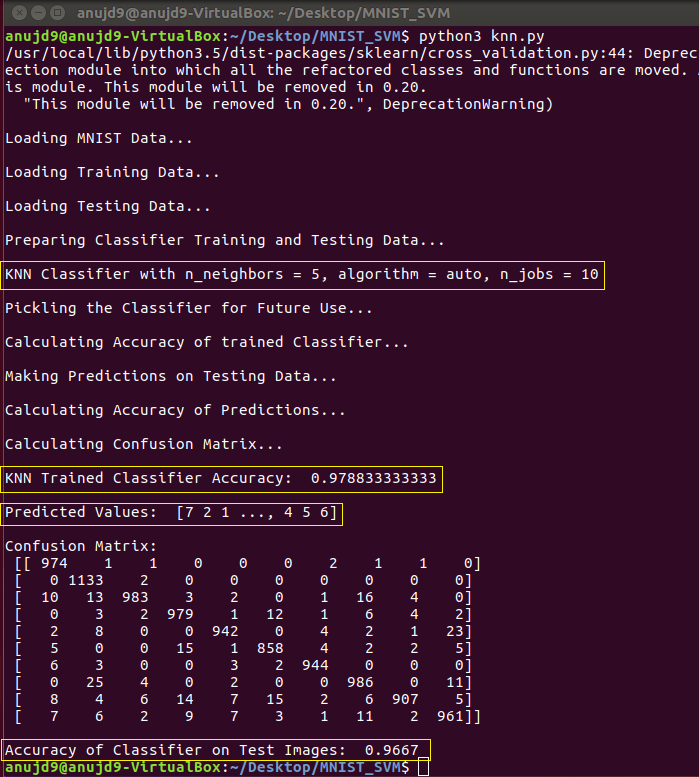
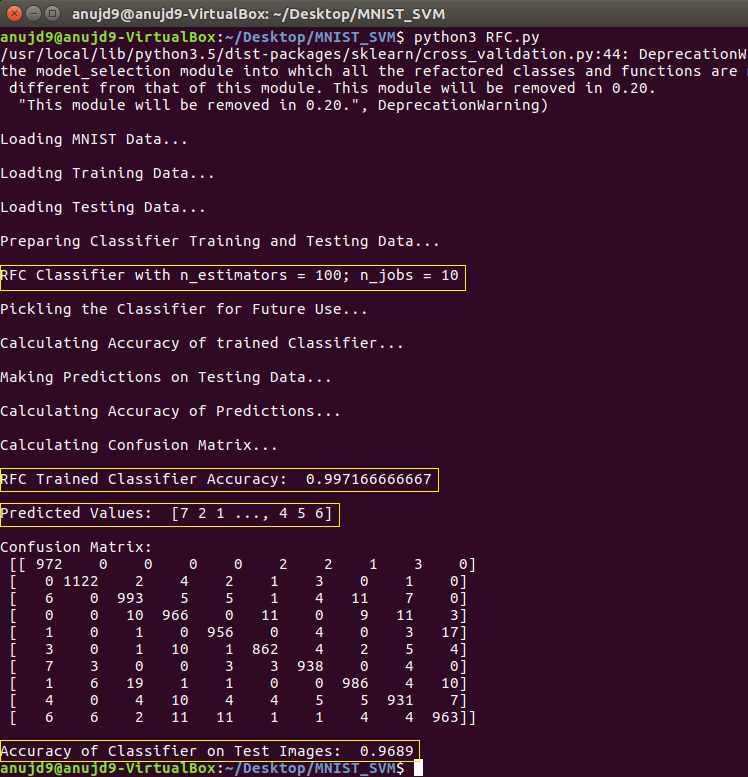
Add files via upload

Changed region(s): [[0.0, 0.2162, 1.0, 1.0], [0.0, 0.0, 1.0, 0.1853], [0.721, 0.3398, 0.8712, 0.3707]]

diff --git a/RFC.py b/RFC.py
@@ -1,0 +1,119 @@
+# Random Forest Classifier
+
+import sys
+import numpy as np
+import pickle
+from sklearn import model_selection
+from sklearn.ensemble import RandomForestClassifier
+from sklearn.metrics import accuracy_score, confusion_matrix
+from MNIST_Dataset_Loader.mnist_loader import MNIST
+import matplotlib.pyplot as plt
+from matplotlib import style
+style.use('ggplot')
+
+
+
+old_stdout = sys.stdout
+log_file = open("summary.log","w")
+sys.stdout = log_file
+
+
+print('\nLoading MNIST Data...')
+# data = MNIST('./python-mnist/data/')
+
+data = MNIST('./MNIST_Dataset_Loader/dataset/')
+
+print('\nLoading Training Data...')
+img_train, labels_train = data.load_training()
+train_img = np.array(img_train)
+train_labels = np.array(labels_train)
+
+print('\nLoading Testing Data...')
+img_test, labels_test = data.load_testing()
+test_img = np.array(img_test)
+test_labels = np.array(labels_test)
+
+
+#Features
+X = train_img
+
+#Labels
+y = train_labels
+
+print('\nPreparing Classifier Training and Validation Data...')
+X_train, X_test, y_train, y_test = model_selection.train_test_split(X,y,test_size=0.1)
+
+
+print('\nRandom Forest Classifier with n_estimators = 100, n_jobs = 10')
+print('\nPickling the Classifier for Future Use...')
+clf = RandomForestClassifier(n_estimators=100, n_jobs=10)
+clf.fit(X_train,y_train)
+
+with open('MNIST_RFC.pickle','wb') as f:
+	pickle.dump(clf, f)
+
+pickle_in = open('MNIST_RFC.pickle','rb')
+clf = pickle.load(pickle_in)
+
+print('\nCalculating Accuracy of trained Classifier...')
+confidence = clf.score(X_test,y_test)
+
+print('\nMaking Predictions on Validation Data...')
+y_pred = clf.predict(X_test)
+
+print('\nCalculating Accuracy of Predictions...')
+accuracy = accuracy_score(y_test, y_pred)
+
+print('\nCreating Confusion Matrix...')
+conf_mat = confusion_matrix(y_test,y_pred)
+
+print('\nRFC Trained Classifier Confidence: ',confidence)
+print('\nPredicted Values: ',y_pred)
+print('\nAccuracy of Classifier on Validation Image Data: ',accuracy)
+print('\nConfusion Matrix: \n',conf_mat)
+
+
+# Plot Confusion Matrix Data as a Matrix
+plt.matshow(conf_mat)
+plt.title('Confusion Matrix for Validation Data')
+plt.colorbar()
+plt.ylabel('True label')
+plt.xlabel('Predicted label')
+plt.show()
+
+
+print('\nMaking Predictions on Test Input Images...')
+test_labels_pred = clf.predict(test_img)
+
+print('\nCalculating Accuracy of Trained Classifier on Test Data... ')
+acc = accuracy_score(test_labels,test_labels_pred)
+
+print('\n Creating Confusion Matrix for Test Data...')
+conf_mat_test = confusion_matrix(test_labels,test_labels_pred)
+
+print('\nPredicted Labels for Test Images: ',test_labels_pred)
+print('\nAccuracy of Classifier on Test Images: ',acc)
+print('\nConfusion Matrix for Test Data: \n',conf_mat_test)
+
+# Plot Confusion Matrix for Test Data
+plt.matshow(conf_mat_test)
+plt.title('Confusion Matrix for Test Data')
+plt.colorbar()
+plt.ylabel('True label')
+plt.xlabel('Predicted label')
+plt.axis('off')
+plt.show()
+
+sys.stdout = old_stdout
+log_file.close()
+
+
+# Show the Test Images with Original and Predicted Labels
+a = np.random.randint(1,30,10)
+for i in a:
+	two_d = (np.reshape(test_img[i], (28, 28)) * 255).astype(np.uint8)
+	plt.title('Original Label: {0}  Predicted Label: {1}'.format(test_labels[i],test_labels_pred[i]))
+	plt.imshow(two_d, interpolation='nearest',cmap='gray')
+	plt.show()
+#------------------------- EOC -----------------------------
+

diff --git a/svm.py b/svm.py
@@ -1,0 +1,115 @@
+import sys
+import numpy as np
+import pickle
+from sklearn import model_selection, svm, preprocessing
+from sklearn.metrics import accuracy_score,confusion_matrix
+from MNIST_Dataset_Loader.mnist_loader import MNIST
+import matplotlib.pyplot as plt
+from matplotlib import style
+style.use('ggplot')
+
+
+# Save all the Print Statements in a Log file.
+old_stdout = sys.stdout
+log_file = open("summary.log","w")
+sys.stdout = log_file
+
+# Load MNIST Data
+print('\nLoading MNIST Data...')
+data = MNIST('./MNIST_Dataset_Loader/dataset/')
+
+print('\nLoading Training Data...')
+img_train, labels_train = data.load_training()
+train_img = np.array(img_train)
+train_labels = np.array(labels_train)
+
+print('\nLoading Testing Data...')
+img_test, labels_test = data.load_testing()
+test_img = np.array(img_test)
+test_labels = np.array(labels_test)
+
+
+#Features
+X = train_img
+
+#Labels
+y = train_labels
+
+# Prepare Classifier Training and Testing Data
+print('\nPreparing Classifier Training and Validation Data...')
+X_train, X_test, y_train, y_test = model_selection.train_test_split(X,y,test_size=0.1)
+
+
+# Pickle the Classifier for Future Use
+print('\nSVM Classifier with gamma = 0.1; Kernel = polynomial')
+print('\nPickling the Classifier for Future Use...')
+clf = svm.SVC(gamma=0.1, kernel='poly')
+clf.fit(X_train,y_train)
+
+with open('MNIST_SVM.pickle','wb') as f:
+	pickle.dump(clf, f)
+
+pickle_in = open('MNIST_SVM.pickle','rb')
+clf = pickle.load(pickle_in)
+
+print('\nCalculating Accuracy of trained Classifier...')
+acc = clf.score(X_test,y_test)
+
+print('\nMaking Predictions on Validation Data...')
+y_pred = clf.predict(X_test)
+
+print('\nCalculating Accuracy of Predictions...')
+accuracy = accuracy_score(y_test, y_pred)
+
+print('\nCreating Confusion Matrix...')
+conf_mat = confusion_matrix(y_test,y_pred)
+
+print('\nSVM Trained Classifier Accuracy: ',acc)
+print('\nPredicted Values: ',y_pred)
+print('\nAccuracy of Classifier on Validation Images: ',accuracy)
+print('\nConfusion Matrix: \n',conf_mat)
+
+# Plot Confusion Matrix Data as a Matrix
+plt.matshow(conf_mat)
+plt.title('Confusion Matrix for Validation Data')
+plt.colorbar()
+plt.ylabel('True label')
+plt.xlabel('Predicted label')
+plt.show()
+
+
+print('\nMaking Predictions on Test Input Images...')
+test_labels_pred = clf.predict(test_img)
+
+print('\nCalculating Accuracy of Trained Classifier on Test Data... ')
+acc = accuracy_score(test_labels,test_labels_pred)
+
+print('\n Creating Confusion Matrix for Test Data...')
+conf_mat_test = confusion_matrix(test_labels,test_labels_pred)
+
+print('\nPredicted Labels for Test Images: ',test_labels_pred)
+print('\nAccuracy of Classifier on Test Images: ',acc)
+print('\nConfusion Matrix for Test Data: \n',conf_mat_test)
+
+# Plot Confusion Matrix for Test Data
+plt.matshow(conf_mat_test)
+plt.title('Confusion Matrix for Test Data')
+plt.colorbar()
+plt.ylabel('True label')
+plt.xlabel('Predicted label')
+plt.axis('off')
+plt.show()
+
+sys.stdout = old_stdout
+log_file.close()
+
+
+# Show the Test Images with Original and Predicted Labels
+a = np.random.randint(1,40,15)
+for i in a:
+	two_d = (np.reshape(test_img[i], (28, 28)) * 255).astype(np.uint8)
+	plt.title('Original Label: {0}  Predicted Label: {1}'.format(test_labels[i],test_labels_pred[i]))
+	plt.imshow(two_d, interpolation='nearest',cmap='gray')
+	plt.show()
+#---------------------- EOC ---------------------#
+

diff --git a/mnist_loader.py b/mnist_loader.py
@@ -1,0 +1,77 @@
+import os
+import struct
+from array import array
+
+
+class MNIST(object):
+    def __init__(self, path='.'):
+        self.path = path
+
+        self.test_img_fname = 't10k-images-idx3-ubyte'
+        self.test_lbl_fname = 't10k-labels-idx1-ubyte'
+
+        self.train_img_fname = 'train-images-idx3-ubyte'
+        self.train_lbl_fname = 'train-labels-idx1-ubyte'
+
+        self.test_images = []
+        self.test_labels = []
+
+        self.train_images = []
+        self.train_labels = []
+
+    def load_testing(self):
+        ims, labels = self.load(os.path.join(self.path, self.test_img_fname),
+                                os.path.join(self.path, self.test_lbl_fname))
+
+        self.test_images = ims
+        self.test_labels = labels
+
+        return ims, labels
+
+    def load_training(self):
+        ims, labels = self.load(os.path.join(self.path, self.train_img_fname),
+                                os.path.join(self.path, self.train_lbl_fname))
+
+        self.train_images = ims
+        self.train_labels = labels
+
+        return ims, labels
+
+    @classmethod
+    def load(cls, path_img, path_lbl):
+        with open(path_lbl, 'rb') as file:
+            magic, size = struct.unpack(">II", file.read(8))
+            if magic != 2049:
+                raise ValueError('Magic number mismatch, expected 2049,'
+                                 'got {}'.format(magic))
+
+            labels = array("B", file.read())
+
+        with open(path_img, 'rb') as file:
+            magic, size, rows, cols = struct.unpack(">IIII", file.read(16))
+            if magic != 2051:
+                raise ValueError('Magic number mismatch, expected 2051,'
+                                 'got {}'.format(magic))
+
+            image_data = array("B", file.read())
+
+        images = []
+        for i in range(size):
+            images.append([0] * rows * cols)
+
+        for i in range(size):
+            images[i][:] = image_data[i * rows * cols:(i + 1) * rows * cols]
+
+        return images, labels
+
+    @classmethod
+    def display(cls, img, width=28, threshold=200):
+        render = ''
+        for i in range(len(img)):
+            if i % width == 0:
+                render += '\n'
+            if img[i] > threshold:
+                render += '@'
+            else:
+                render += '.'
+        return render
